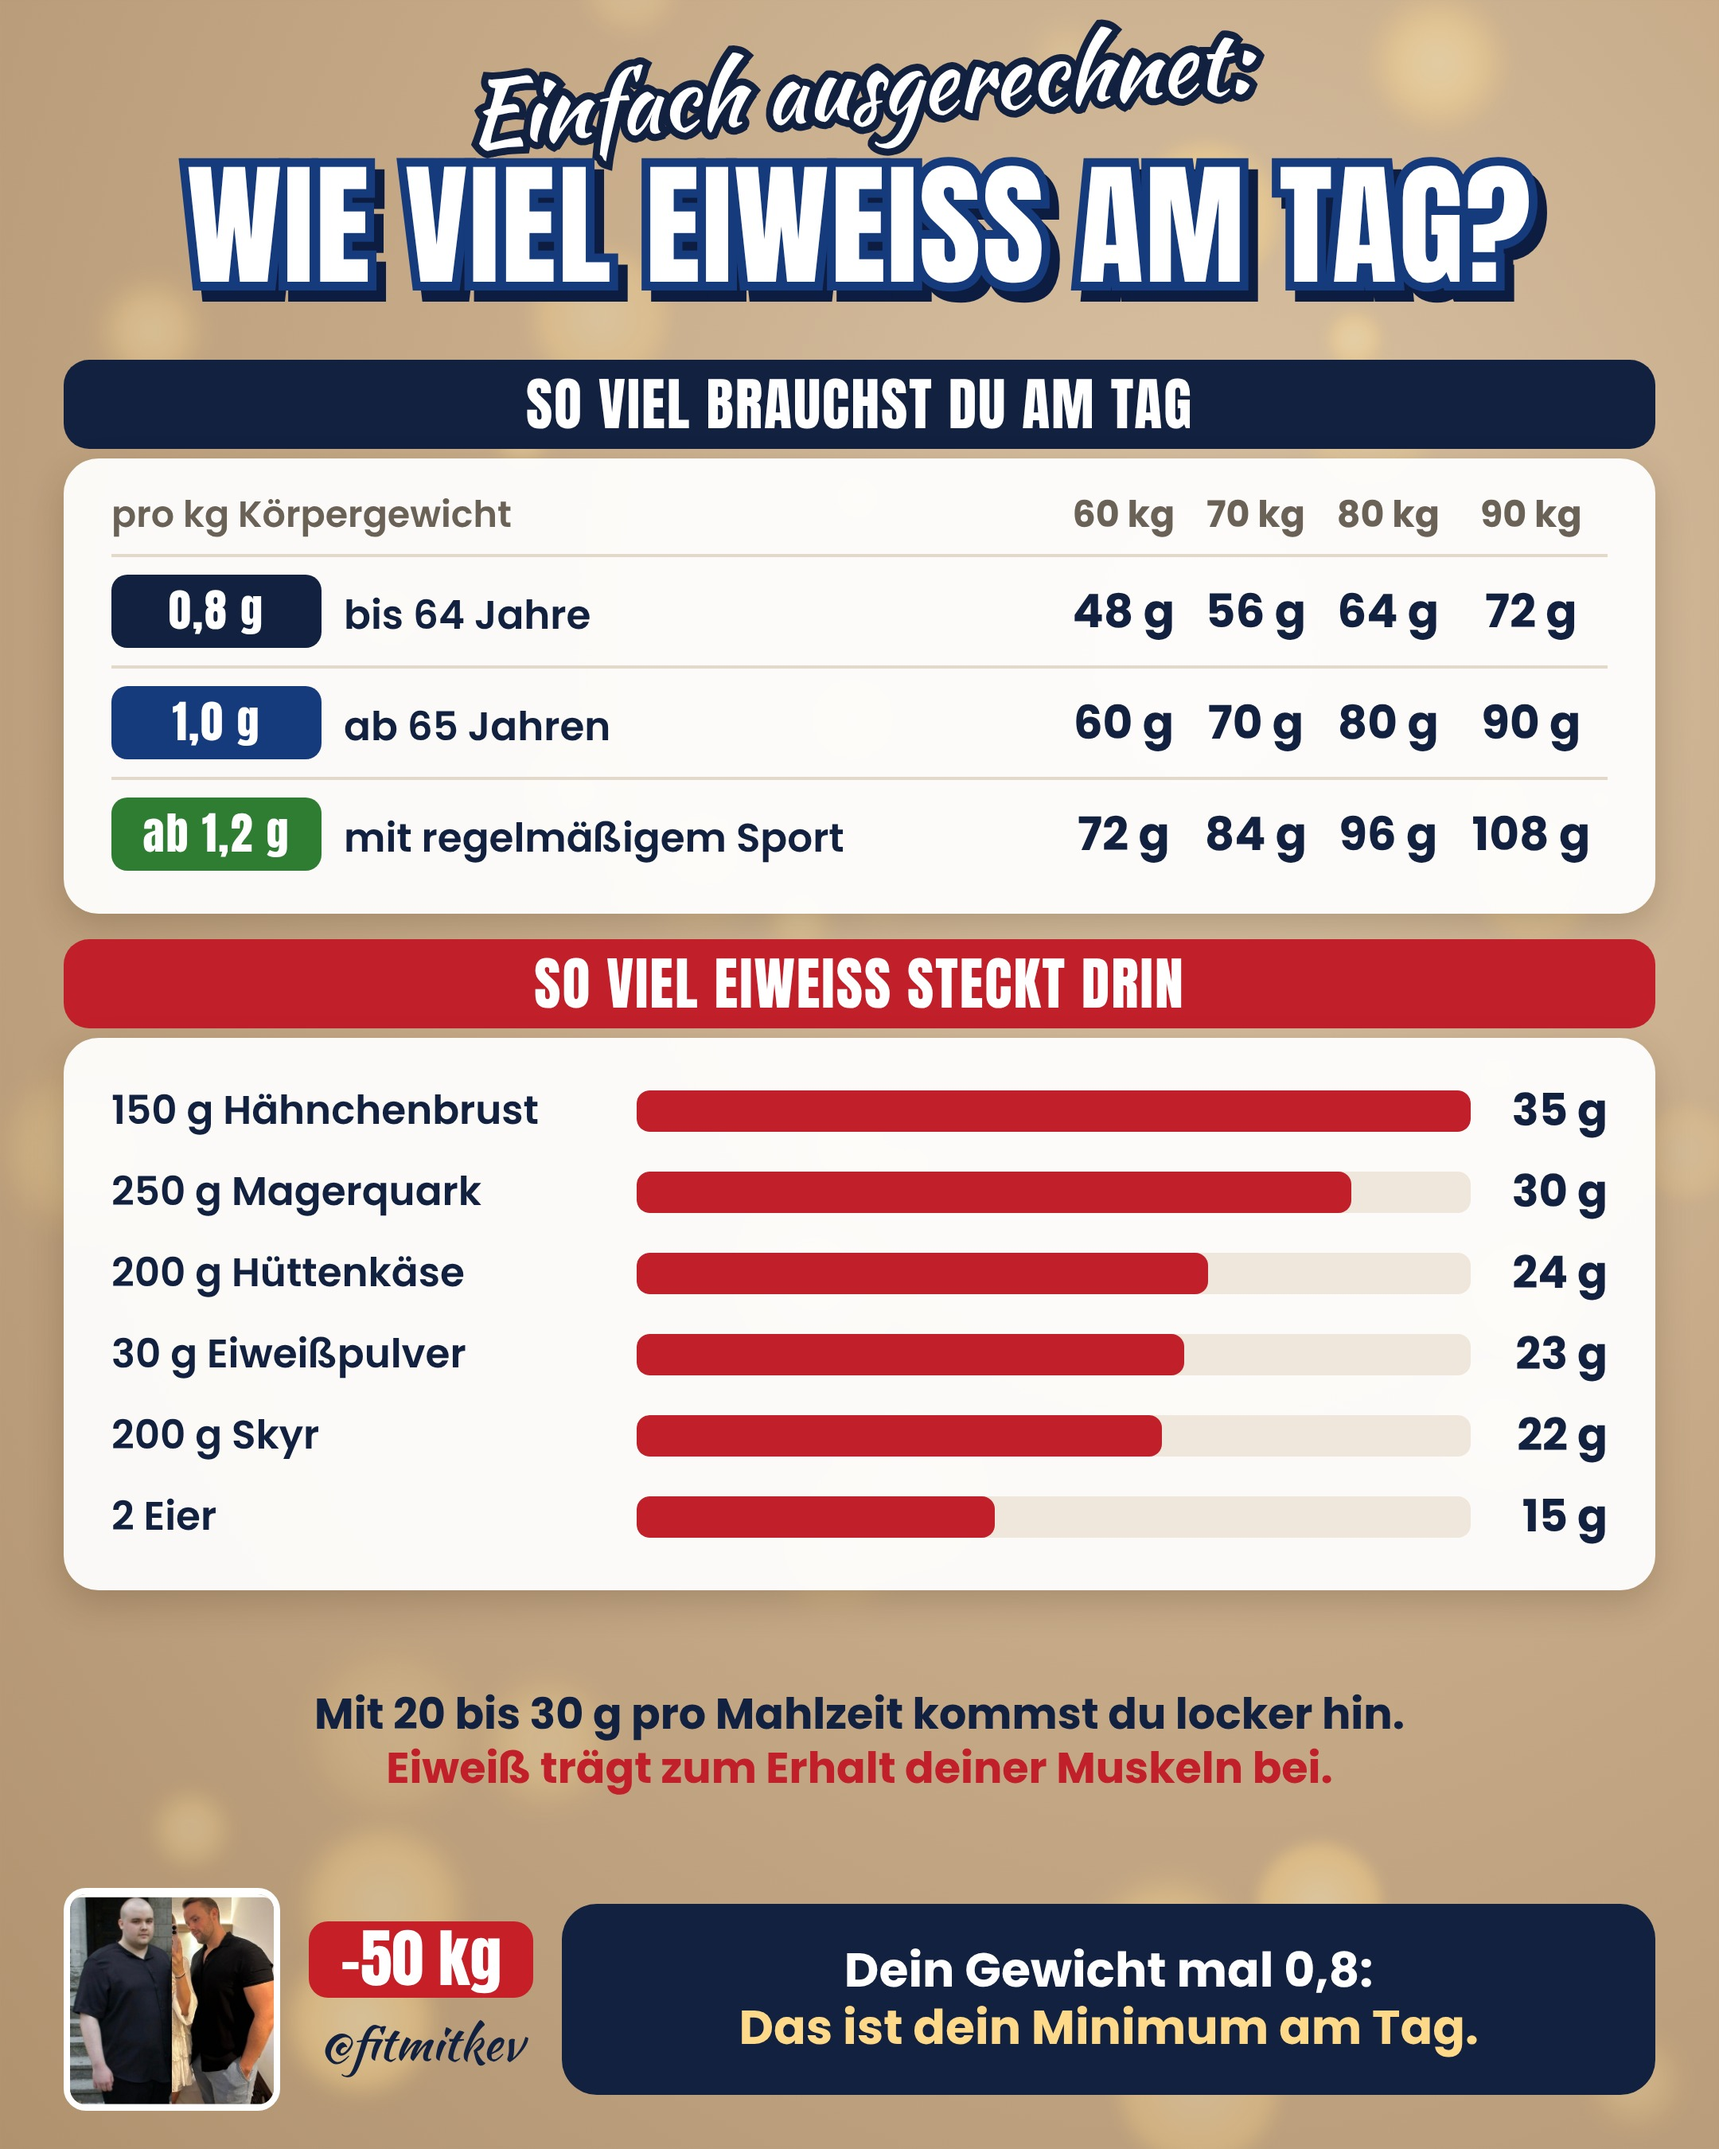
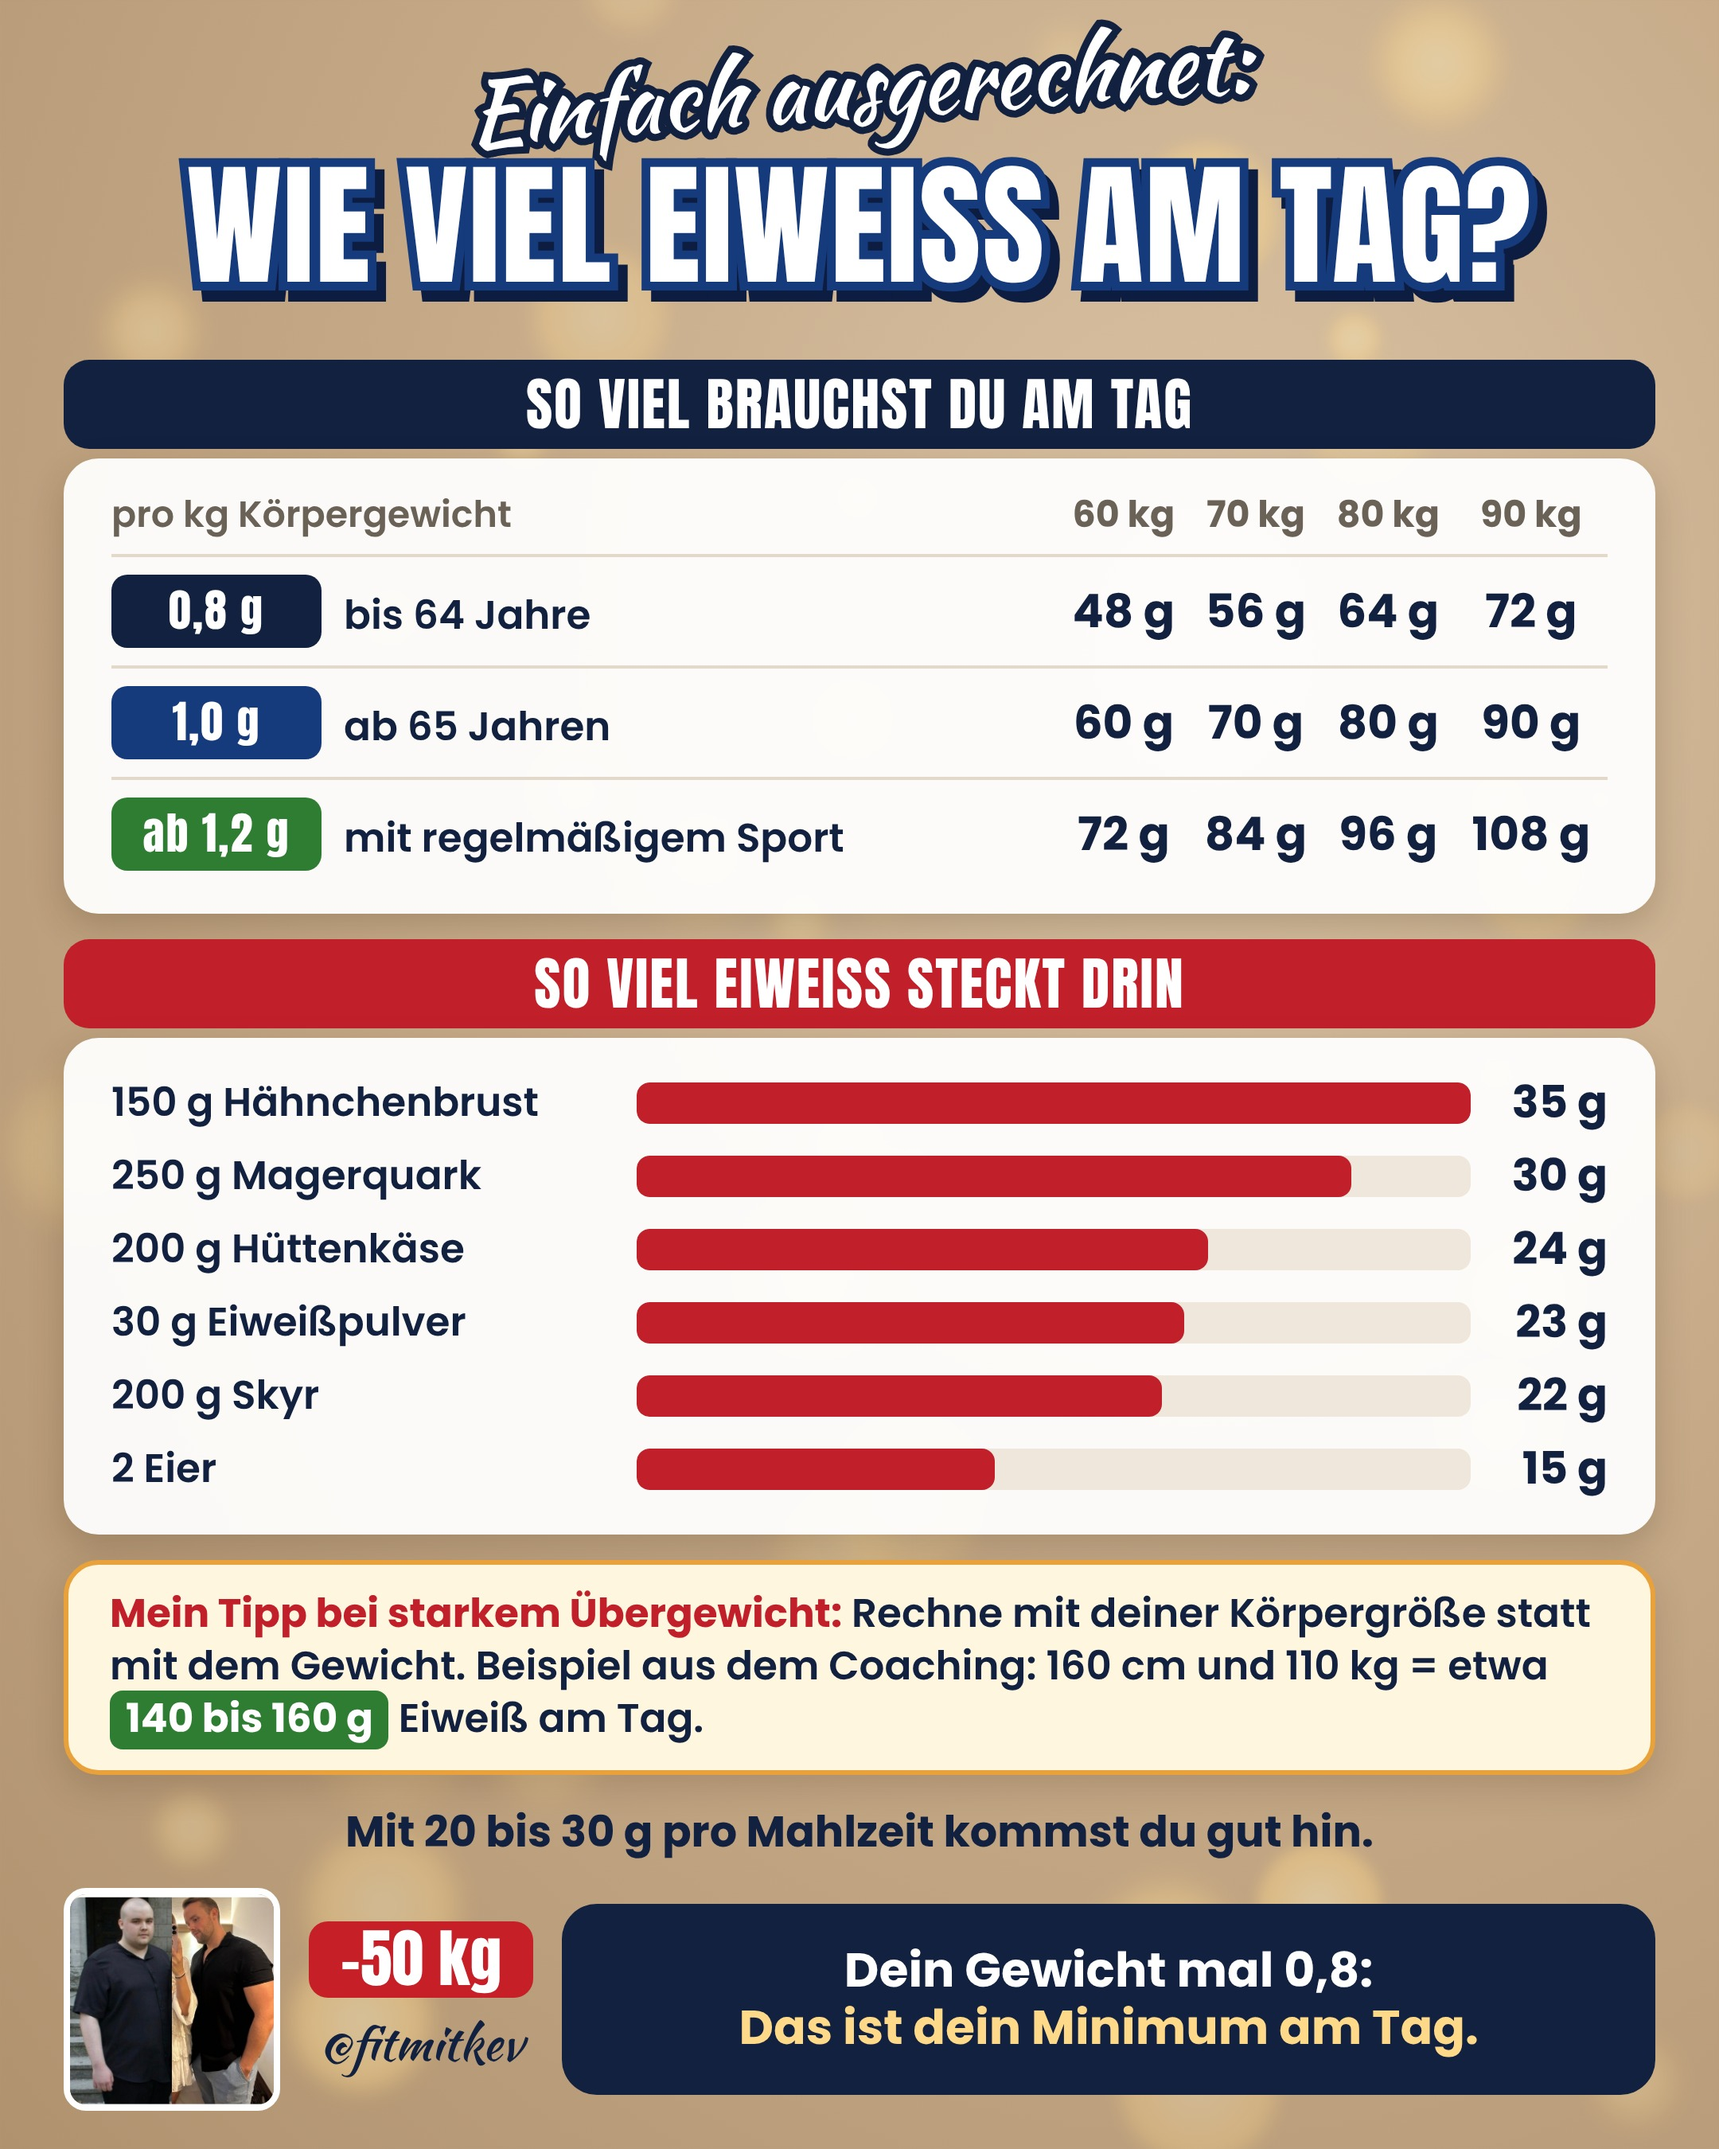
G94: Metricool-ids (20 Beiträge geprüft), Mehrwert-Board 5 mit Kevs Tipp bei starkem Übergewicht
Claude-Session: https://claude.ai/code/session_01KPVmpRePrZAkggdzf7KsfK

Changed region(s): [[0.031, 0.4978, 0.9616, 0.8711]]

diff --git a/tools/mw/mw5_board.py b/tools/mw/mw5_board.py
@@ -1,5 +1,6 @@
 # Mehrwert-Board 5 (1080x1350, Ausgabe 2160x2700) im warmen Board-Look: "Wie viel Eiweiß brauchst du am Tag?" (Eiweiß-Woche, ohne Marke)
 # Oben: Tabelle Bedarf nach Körpergewicht (DGE-Referenzwerte: 0,8 g/kg für Erwachsene bis 64, 1,0 g/kg ab 65; DGE-Position Sport: 1,2–2,0 g/kg).
+# Dazu Kevs Coaching-Tipp (14.11.): bei starkem Übergewicht Eiweißziel nach der Körpergröße, Beispiel 160 cm / 110 kg = ca. 140–160 g.
 # Unten: Eiweiß je Portion (Werte aus der Nährwert-Tabelle der Rezepte; Eiweißpulver 22–24 g je 30 g).
 import os, sys, random
 from PIL import Image
@@ -45,11 +46,14 @@ td{{border-top:2px solid #e3d9cb;padding:11px 0;font-size:25px;font-weight:600;c
 td.rl{{white-space:nowrap}}
 td.rl b{{display:inline-block;min-width:112px;text-align:center;font-family:A;font-weight:400;font-size:28px;letter-spacing:1px;color:#fff;border-radius:10px;padding:1px 10px 3px;margin-right:14px}}
 td.v{{text-align:center;font-weight:700;font-size:29px}}
-.fr{{display:flex;align-items:center;margin:9px 0;font-size:25px;font-weight:600;color:{NAVY}}}
+.fr{{display:flex;align-items:center;margin:4px 0;font-size:25px;font-weight:600;color:{NAVY}}}
 .fn{{width:330px;flex:none}}
 .fb{{flex:1;height:26px;background:#efe7db;border-radius:8px;overflow:hidden}}
 .fb i{{display:block;height:100%;background:{RED};border-radius:8px}}
 .fv{{width:86px;flex:none;text-align:right;font-weight:700;font-size:28px}}
+.tip{{position:absolute;left:40px;width:1000px;box-sizing:border-box;background:#fff6e0;border:3px solid #e9a23b;border-radius:22px;padding:14px 26px 16px;font-size:25px;font-weight:600;color:{NAVY};line-height:1.32;box-shadow:0 8px 22px rgba(60,40,20,.18)}}
+.tip b{{font-weight:700;color:{RED}}}
+.tip u{{text-decoration:none;font-weight:700;background:{GREEN};color:#fff;border-radius:8px;padding:0 10px 2px;white-space:nowrap}}
 .mid{{position:absolute;left:40px;width:1000px;text-align:center;font-size:27px;font-weight:700;color:{NAVY};line-height:1.25}}
 .mid span{{color:{RED}}}
 .foot{{position:absolute;left:40px;top:1188px;width:1000px;height:136px;display:flex;align-items:center;gap:18px}}
@@ -66,7 +70,8 @@ td.v{{text-align:center;font-weight:700;font-size:29px}}
 <div class="card" id="c1" style="top:288px">{table}</div>
 <div class="lab" id="l2" style="top:590px;background:{RED}">SO VIEL EIWEISS STECKT DRIN</div>
 <div class="card" id="c2" style="top:652px">{bars}</div>
-<div class="mid" id="mid" style="top:1060px">Mit 20 bis 30 g pro Mahlzeit kommst du locker hin.<br><span>Eiweiß trägt zum Erhalt deiner Muskeln bei.</span></div>
+<div class="tip" id="tip" style="top:980px"><b>Mein Tipp bei starkem Übergewicht:</b> Rechne mit deiner Körpergröße statt mit dem Gewicht. Beispiel aus dem Coaching: 160 cm und 110 kg = etwa <u>140 bis 160 g</u> Eiweiß am Tag.</div>
+<div class="mid" id="mid" style="top:1134px">Mit 20 bis 30 g pro Mahlzeit kommst du gut hin.</div>
 <div class="foot"><img class="ph" src="{VN}"><div class="bd"><div class="badge">-50 kg</div><div class="ig">@fitmitkev</div></div>
 <div class="msg"><div>Dein Gewicht mal 0,8:<br><span>Das ist dein Minimum am Tag.</span></div></div></div>
 </body></html>"""
@@ -76,6 +81,6 @@ with sync_playwright() as pw:
     b_=pw.chromium.launch(); pg=b_.new_page(viewport={'width':1080,'height':1350},device_scale_factor=2)
     pg.goto('file://'+f'{D}/mw5.html'); pg.wait_for_timeout(500)
     print(pg.evaluate('''()=>{const g=id=>document.getElementById(id).getBoundingClientRect();const t=document.querySelector('.top').getBoundingClientRect();
-      return {titelUnten:Math.round(t.bottom),l1:Math.round(g('l1').top),c1:[Math.round(g('c1').top),Math.round(g('c1').bottom)],l2:Math.round(g('l2').top),c2:[Math.round(g('c2').top),Math.round(g('c2').bottom)],mid:[Math.round(g('mid').top),Math.round(g('mid').bottom)],fuss:Math.round(document.querySelector('.foot').getBoundingClientRect().top)};}'''))
+      return {titelUnten:Math.round(t.bottom),l1:Math.round(g('l1').top),c1:[Math.round(g('c1').top),Math.round(g('c1').bottom)],l2:Math.round(g('l2').top),c2:[Math.round(g('c2').top),Math.round(g('c2').bottom)],tip:[Math.round(g('tip').top),Math.round(g('tip').bottom)],mid:[Math.round(g('mid').top),Math.round(g('mid').bottom)],fuss:Math.round(document.querySelector('.foot').getBoundingClientRect().top)};}'''))
     pg.screenshot(path=f'{D}/_b.png'); b_.close()
 Image.open(f'{D}/_b.png').convert('RGB').save(out,quality=92); os.remove(f'{D}/_b.png')
